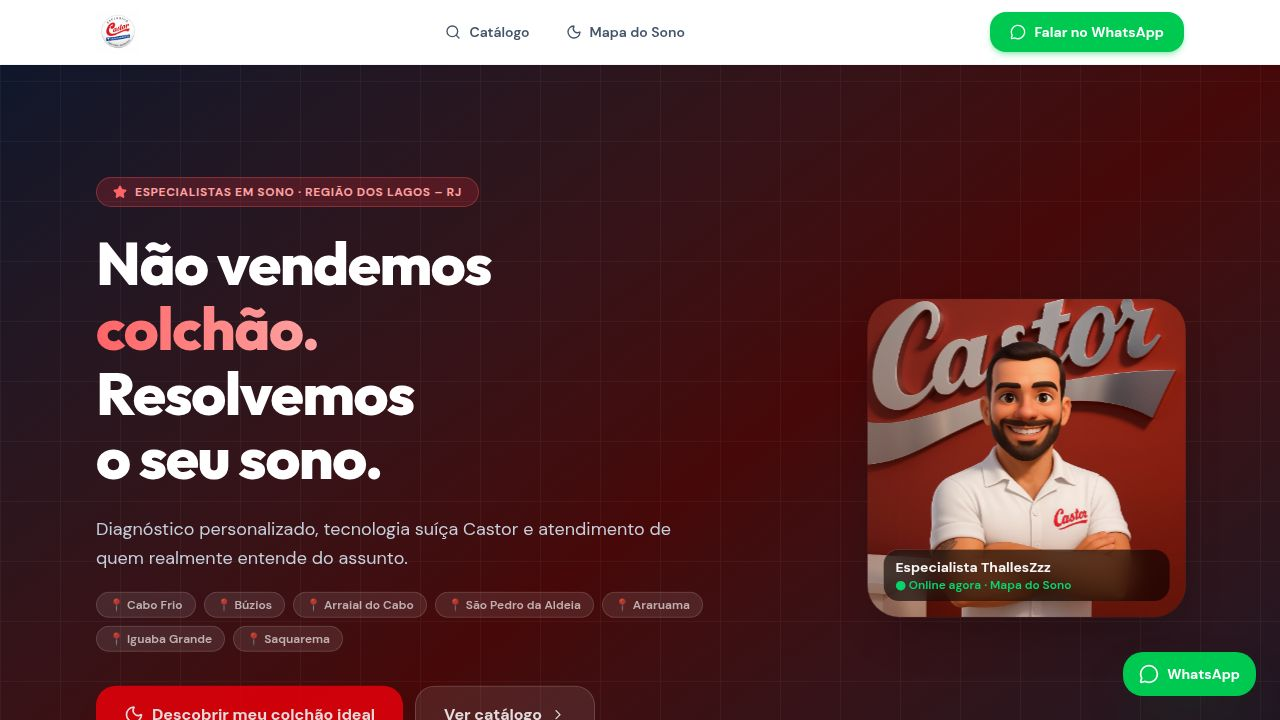
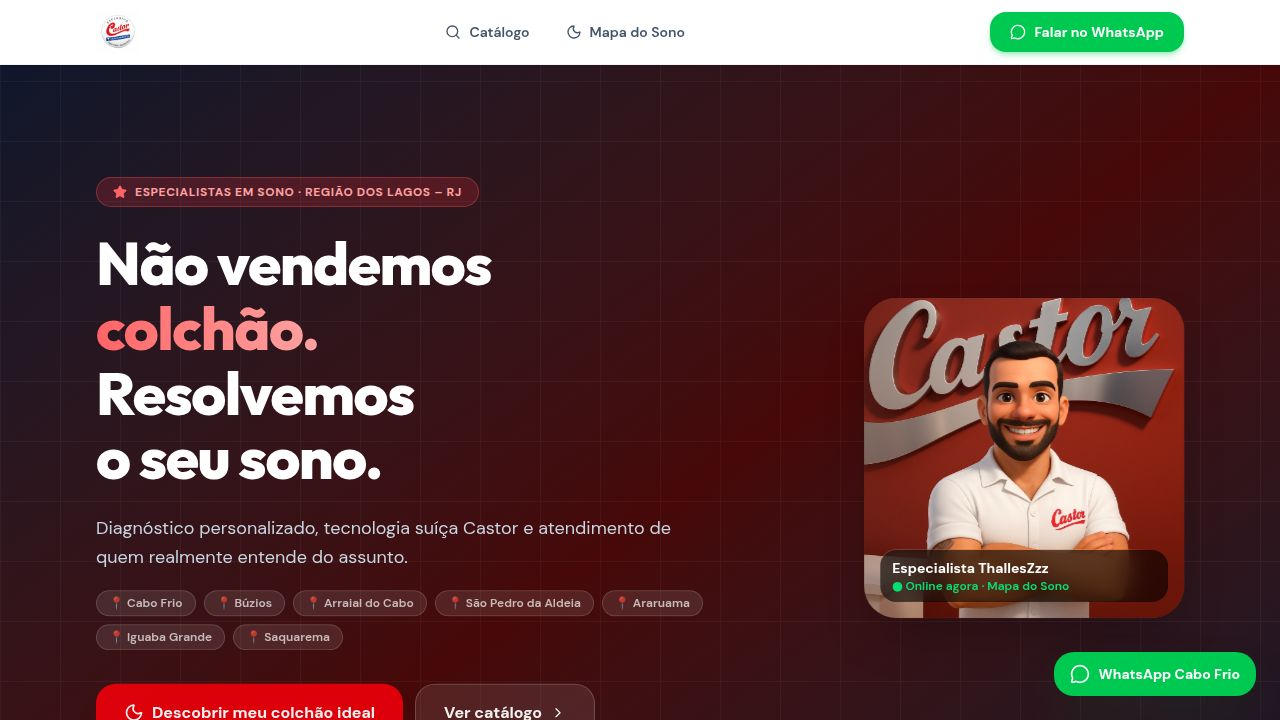
Restrict data access based on user roles and fix API paths
Implements role-based data filtering for dashboard, historical quotes, customer management, and deliveries. Fixes incorrect API endpoint path for closing sales.

Replit-Commit-Author: Agent
Replit-Commit-Session-Id: b559604e-008e-49fe-b378-685993325f58
Replit-Commit-Checkpoint-Type: full_checkpoint
Replit-Commit-Event-Id: c145d397-6f0d-4a01-8a28-0889f82e8836
Replit-Commit-Screenshot-Url: https://storage.googleapis.com/screenshot-production-us-central1/381b4756-5244-4744-9a1c-08432e9cb2b4/b559604e-008e-49fe-b378-685993325f58/TQtzpMM
Replit-Helium-Checkpoint-Created: true

diff --git a/artifacts/castor-orcamento/src/pages/Historico.tsx b/artifacts/castor-orcamento/src/pages/Historico.tsx
@@ -4,11 +4,11 @@ import {
   Clock, ChevronDown, ChevronUp, Copy, CheckCircle2, Phone, Package,
   RefreshCw, FileText, ShoppingBag, MapPin, X, AlertCircle, MessageCircle
 } from "lucide-react";
-import { useHistoricoOrcamentos } from "@workspace/api-client-react";
 import type { HistoricoItem } from "@workspace/api-client-react/src/generated/api.schemas";
 import { useToast } from "@/hooks/use-toast";
-import { useQueryClient } from "@tanstack/react-query";
+import { useQuery, useQueryClient } from "@tanstack/react-query";
 import { cn } from "@/lib/utils";
+import { useAuth } from "@/contexts/AuthContext";
 
 function formatarData(iso?: string) {
   if (!iso) return "—";
@@ -164,7 +164,7 @@ function ItemCard({ item }: { item: HistoricoItem }) {
   const handleFecharVenda = async (endereco: string, observacoes: string, dataEntrega: string) => {
     setFechando(true);
     try {
-      const res = await fetch(`/api/orcamentos/${item.id}/fechar`, {
+      const res = await fetch(`/api/orcamento/${item.id}/fechar`, {
         method: "POST",
         headers: { "Content-Type": "application/json" },
         body: JSON.stringify({ endereco, observacoes, dataEntrega }),
@@ -339,7 +339,19 @@ function ItemCard({ item }: { item: HistoricoItem }) {
 }
 
 export default function Historico() {
-  const { data: historico, isLoading, refetch } = useHistoricoOrcamentos();
+  const { user } = useAuth();
+  const params = new URLSearchParams();
+  if (user?.nome) params.set("vendedor", user.nome);
+  if (user?.papel) params.set("papel", user.papel);
+
+  const { data: historico, isLoading, refetch } = useQuery<HistoricoItem[]>({
+    queryKey: ["historico-orcamentos", user?.nome, user?.papel],
+    queryFn: async () => {
+      const res = await fetch(`/api/orcamento/historico?${params.toString()}`);
+      if (!res.ok) throw new Error("Erro ao carregar histórico");
+      return res.json();
+    },
+  });
 
   const pendentes = historico?.filter(i => i.status !== "vendido") ?? [];
   const vendidos = historico?.filter(i => i.status === "vendido") ?? [];
@@ -354,7 +366,9 @@ export default function Historico() {
             Histórico
           </h1>
           <p className="text-slate-500 mt-2 text-sm md:text-base">
-            Todos os orçamentos gerados e salvos pela equipe.
+            {user?.papel === "dono"
+              ? "Todos os orçamentos da equipe."
+              : `Seus orçamentos, ${user?.nome?.split(" ")[0] ?? ""}.`}
           </p>
           {atrasadosCount > 0 && (
             <p className="text-xs text-amber-600 font-bold mt-1 flex items-center gap-1">

diff --git a/artifacts/castor-orcamento/src/pages/Clientes.tsx b/artifacts/castor-orcamento/src/pages/Clientes.tsx
@@ -4,8 +4,9 @@ import {
   Users, Phone, ShoppingBag, Calendar, TrendingUp,
   RefreshCw, MessageCircle, CheckCircle2, Clock
 } from "lucide-react";
-import { useHistoricoOrcamentos } from "@workspace/api-client-react";
+import { useQuery } from "@tanstack/react-query";
 import { cn } from "@/lib/utils";
+import { useAuth } from "@/contexts/AuthContext";
 
 function diasDesde(iso?: string): number {
   if (!iso) return 0;
@@ -38,7 +39,19 @@ interface ClienteAgregado {
 }
 
 export default function Clientes() {
-  const { data: historico, isLoading, refetch } = useHistoricoOrcamentos();
+  const { user } = useAuth();
+  const params = new URLSearchParams();
+  if (user?.nome) params.set("vendedor", user.nome);
+  if (user?.papel) params.set("papel", user.papel);
+
+  const { data: historico, isLoading, refetch } = useQuery<any[]>({
+    queryKey: ["historico-orcamentos", user?.nome, user?.papel],
+    queryFn: async () => {
+      const res = await fetch(`/api/orcamento/historico?${params.toString()}`);
+      if (!res.ok) throw new Error("Erro ao carregar histórico");
+      return res.json();
+    },
+  });
 
   const clientes = useMemo<ClienteAgregado[]>(() => {
     if (!historico) return [];
@@ -95,7 +108,9 @@ export default function Clientes() {
             Clientes
           </h1>
           <p className="text-slate-500 mt-2 text-sm">
-            Histórico agrupado por cliente — compras, valor e frequência.
+            {user?.papel === "dono"
+              ? "Histórico agrupado por cliente — compras, valor e frequência."
+              : `Seus clientes, ${user?.nome?.split(" ")[0] ?? ""} — compras, valor e frequência.`}
           </p>
         </div>
         <button

diff --git a/artifacts/api-server/src/routes/dashboard.ts b/artifacts/api-server/src/routes/dashboard.ts
@@ -1,7 +1,7 @@
 import { Router, type IRouter } from "express";
 import { db } from "@workspace/db";
 import { orcamentosTable, produtosTable, entregasTable } from "@workspace/db/schema";
-import { desc, sql } from "drizzle-orm";
+import { desc, eq, sql } from "drizzle-orm";
 
 const router: IRouter = Router();
 
@@ -12,12 +12,23 @@ function parseBRL(valor?: string | null): number {
   return isNaN(num) ? 0 : num;
 }
 
-router.get("/", async (_req, res) => {
+router.get("/", async (req, res) => {
   try {
+    const { vendedor, papel } = req.query as { vendedor?: string; papel?: string };
+    const filtraPorVendedor = vendedor && papel !== "dono";
+
+    const orcamentosQuery = filtraPorVendedor
+      ? db.select().from(orcamentosTable).where(eq(orcamentosTable.vendedor, vendedor!)).orderBy(desc(orcamentosTable.criadoEm)).limit(500)
+      : db.select().from(orcamentosTable).orderBy(desc(orcamentosTable.criadoEm)).limit(500);
+
+    const entregasQuery = filtraPorVendedor
+      ? db.select().from(entregasTable).where(eq(entregasTable.vendedor, vendedor!))
+      : db.select().from(entregasTable);
+
     const [orcamentos, totalProdutos, entregas] = await Promise.all([
-      db.select().from(orcamentosTable).orderBy(desc(orcamentosTable.criadoEm)).limit(500),
+      orcamentosQuery,
       db.select({ count: sql<number>`count(*)` }).from(produtosTable),
-      db.select().from(entregasTable),
+      entregasQuery,
     ]);
 
     const totalOrcamentos = orcamentos.length;

diff --git a/artifacts/api-server/src/routes/orcamento.ts b/artifacts/api-server/src/routes/orcamento.ts
@@ -169,7 +169,18 @@ router.post("/salvar", async (req, res) => {
 
 router.get("/historico", async (req, res) => {
   try {
-    const historico = await db.select().from(orcamentosTable).orderBy(desc(orcamentosTable.criadoEm)).limit(100);
+    const { vendedor, papel } = req.query as { vendedor?: string; papel?: string };
+
+    let query = db.select().from(orcamentosTable).orderBy(desc(orcamentosTable.criadoEm)).limit(200);
+
+    if (vendedor && papel !== "dono") {
+      query = db.select().from(orcamentosTable)
+        .where(eq(orcamentosTable.vendedor, vendedor))
+        .orderBy(desc(orcamentosTable.criadoEm))
+        .limit(200);
+    }
+
+    const historico = await query;
     res.json(historico);
   } catch (error) {
     console.error("Erro ao buscar histórico:", error);

diff --git a/artifacts/api-server/src/routes/entregas.ts b/artifacts/api-server/src/routes/entregas.ts
@@ -5,10 +5,16 @@ import { eq, desc } from "drizzle-orm";
 
 const router: IRouter = Router();
 
-router.get("/", async (_req, res) => {
+router.get("/", async (req, res) => {
   try {
-    const entregas = await db.select().from(entregasTable).orderBy(desc(entregasTable.criadoEm));
-    res.json(entregas);
+    const { vendedor, papel } = req.query as { vendedor?: string; papel?: string };
+    const allEntregas = await db.select().from(entregasTable).orderBy(desc(entregasTable.criadoEm));
+
+    if (vendedor && papel === "vendedor") {
+      res.json(allEntregas.filter(e => e.vendedor === vendedor));
+    } else {
+      res.json(allEntregas);
+    }
   } catch (error) {
     console.error("Erro ao listar entregas:", error);
     res.status(500).json({ error: "Erro interno" });

diff --git a/artifacts/castor-orcamento/src/pages/Dashboard.tsx b/artifacts/castor-orcamento/src/pages/Dashboard.tsx
@@ -146,10 +146,14 @@ export default function Dashboard() {
     setMeta(val);
   };
 
+  const dashParams = new URLSearchParams();
+  if (user?.nome) dashParams.set("vendedor", user.nome);
+  if (user?.papel) dashParams.set("papel", user.papel);
+
   const { data, isLoading, refetch } = useQuery<DashboardData>({
-    queryKey: ["dashboard"],
+    queryKey: ["dashboard", user?.nome, user?.papel],
     queryFn: async () => {
-      const res = await fetch("/api/dashboard");
+      const res = await fetch(`/api/dashboard?${dashParams.toString()}`);
       if (!res.ok) throw new Error("Erro ao carregar dashboard");
       return res.json();
     },
@@ -168,7 +172,9 @@ export default function Dashboard() {
           <h1 className="text-3xl md:text-4xl font-display font-extrabold text-slate-900 tracking-tight">
             Dashboard
           </h1>
-          <p className="text-slate-500 mt-2 text-sm">Visão geral da operação comercial.</p>
+          <p className="text-slate-500 mt-2 text-sm">
+            {isDono ? "Visão geral da operação comercial." : `Seus números, ${user?.nome?.split(" ")[0] ?? ""}.`}
+          </p>
         </div>
         <button
           onClick={() => refetch()}

diff --git a/artifacts/castor-orcamento/src/pages/Logistica.tsx b/artifacts/castor-orcamento/src/pages/Logistica.tsx
@@ -445,10 +445,14 @@ export default function Logistica() {
   const [filtroStatus, setFiltroStatus] = useState<string>("todos");
   const [reviewEntrega, setReviewEntrega] = useState<Entrega | null>(null);
 
+  const entregaParams = new URLSearchParams();
+  if (user?.nome) entregaParams.set("vendedor", user.nome);
+  if (user?.papel) entregaParams.set("papel", user.papel);
+
   const { data: entregas = [], isLoading, refetch } = useQuery<Entrega[]>({
-    queryKey: ["entregas"],
+    queryKey: ["entregas", user?.nome, user?.papel],
     queryFn: async () => {
-      const res = await fetch("/api/entregas");
+      const res = await fetch(`/api/entregas?${entregaParams.toString()}`);
       if (!res.ok) throw new Error("Erro ao carregar entregas");
       return res.json();
     },

diff --git a/replit.md b/replit.md
@@ -48,9 +48,10 @@ pnpm workspace monorepo usando TypeScript. Cada pacote gerencia suas próprias d
 - Gera URL Google Maps com todas as paradas
 - Botão WhatsApp por parada com mensagem pré-formatada para o Pedro
 
-### Auth
-- Códigos: THALLES (dono), CASTOR2 (irmã/admin), ENTREGA (Pedro/entregador)
+### Auth & Isolamento de Dados
+- Códigos: THALLES (dono/CF), MARCELA (vendedor/CF), VAGNER (vendedor/CF), NETE (vendedor/Araruama), PEDROPAULO (vendedor/Araruama), CASTOR2 (admin/CF), ENTREGA (Pedro/entrega)
 - sessionStorage, AuthContext, LoginScreen brandado
+- **Isolamento por papel**: APIs recebem `?vendedor=NOME&papel=PAPEL`. Dono vê tudo, vendedor vê só seus próprios dados (histórico, dashboard, clientes, entregas). Pedro (entrega) vê todas as entregas.
 
 ## Categorias coletadas
 